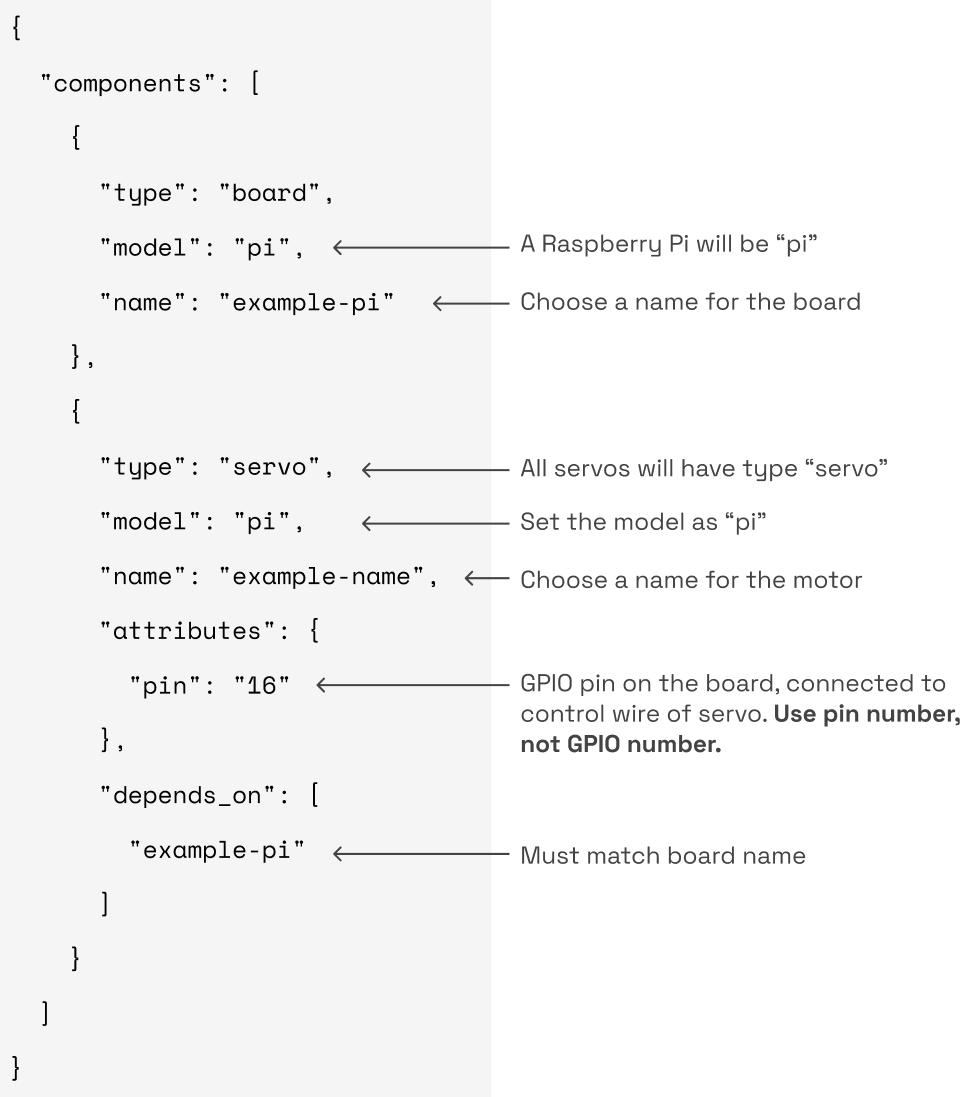
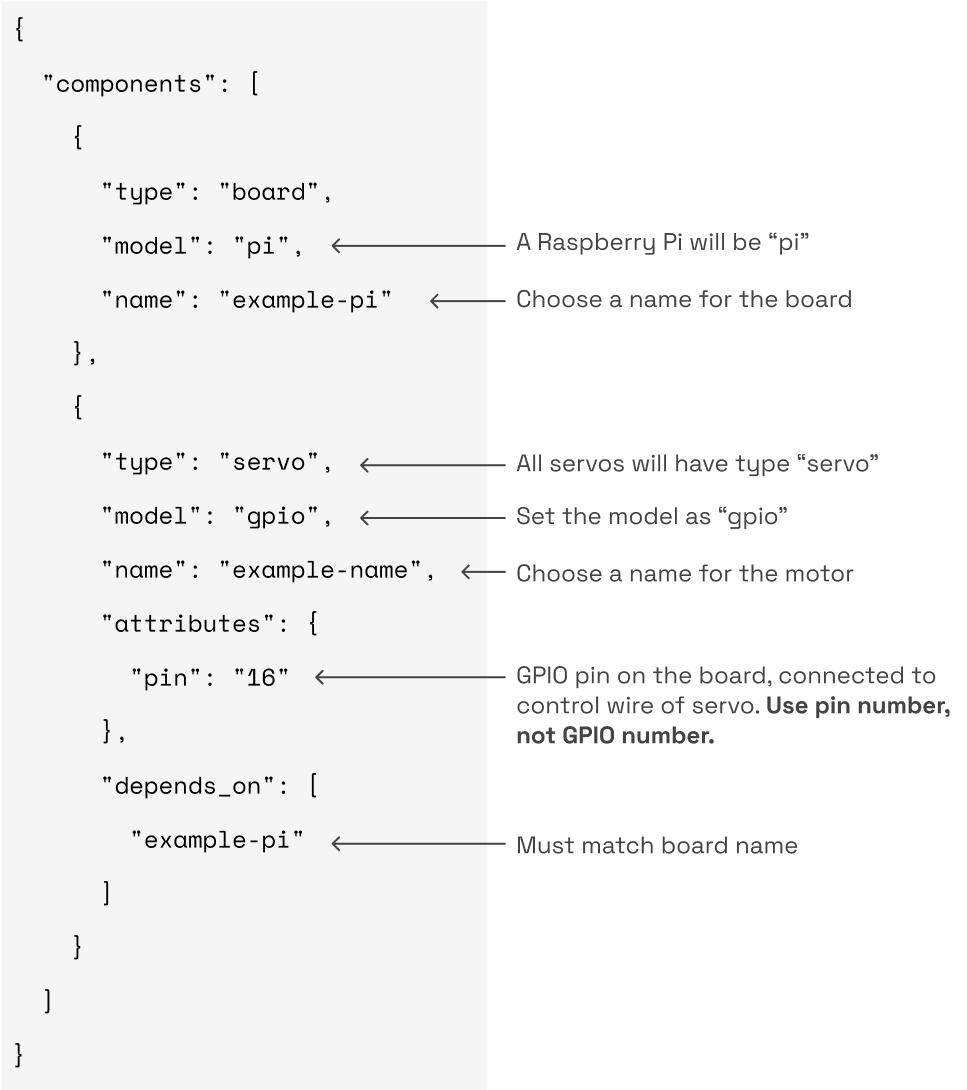
update servo doc

diff --git a/docs/components/servo.md b/docs/components/servo.md
@@ -12,9 +12,10 @@ They are useful for precise positioning, usually limited to a 180 degree range o
 Continuous rotation servos are also available that maintain a speed rather than a position.
 
 ## Hardware Requirements
+
 A typical servo control setup comprises the following:
 
-- A Raspberry Pi
+- A [board component](/components/board/) such as a Raspberry Pi
 - A servo
 - An appropriate power supply
     - If the servo will not be under any significant load and thus won’t draw much current, you may be able to get away with powering it off 5V (if that’s its required voltage) from the Pi pins.
@@ -23,7 +24,9 @@ A typical servo control setup comprises the following:
 {{% alert title="Caution" color="caution" %}}  
 Always disconnect devices from power before plugging, unplugging or moving wires or otherwise modifying electrical circuits.
 {{% /alert %}}
+
 ## Mechanism
+
 A servo contains a small electric motor, a series of gears, and a potentiometer attached to the shaft to act as an encoder.
 It also contains a closed-loop position control circuit that takes a <a href="https://en.wikipedia.org/wiki/Pulse-width_modulation" target="_blank">Pulse Width Modulation (PWM)</a>[^pwm] signal input and holds the shaft at a certain angle based on that input.
 
@@ -33,6 +36,10 @@ A typical servo will take PWM pulses ranging from 1ms to 2ms long, and map this 
 A 1.5ms signal will hold the servo in the middle or “neutral” position, 1ms will move it to 90 degrees from there in one direction, and 2ms will move it 90 degrees from neutral in the opposite direction.
 
 ## Wiring
+
+The signal wire of the servo must be wired to a GPIO pin on the board.
+The other two wires are for power.
+
 Here's an example of how a servo might be wired to a Raspberry Pi:  
 
 ![servo-wiring](../img/servo/servo-wiring.png)
@@ -40,8 +47,9 @@ Here's an example of how a servo might be wired to a Raspberry Pi:
 ## Viam Configuration
 
 ### Required Attributes
-In addition to the `name` (of your choosing), `model` ("pi") and `type` ("servo"), you'll need to configure a `pin` to control the servo.
-The servo will depend on the board, which must also be configured.
+
+In addition to the `name` (of your choosing), `model` ("gpio") and `type` ("servo"), you'll need to configure a `pin` to control the servo.
+The servo `depends_on` the board, which must be configured as a [board component](/components/board/).
 
 An example configuration file containing the necessary attributes is as follows:  
 
@@ -50,10 +58,12 @@ An example configuration file containing the necessary attributes is as follows:
 [Click here for the raw JSON.](../example-configs/servo-config.json)
 
 ### Optional Attributes
+
 Attribute Name | Type | Meaning/Purpose
 -------------- | ---- | ---------------
 `min` | int | Specifies the minimum angle in degrees to which the servo can move  
 `max` | int | Specifies the maximum angle in degrees to which the servo can move
 
 ## Implementation
+
 [Python SDK Documentation](https://python.viam.dev/autoapi/viam/components/servo/index.html)
